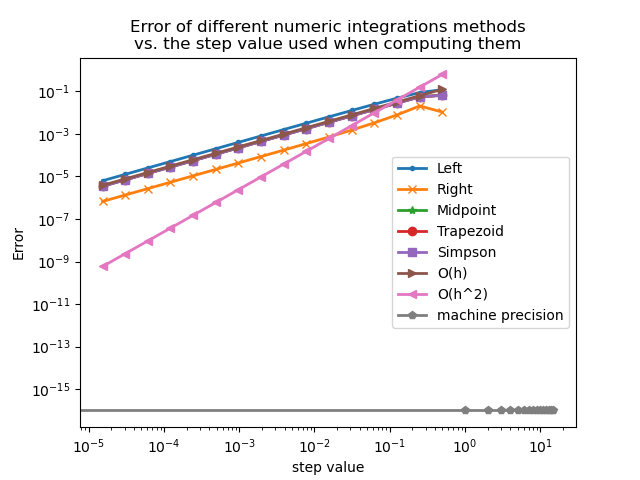
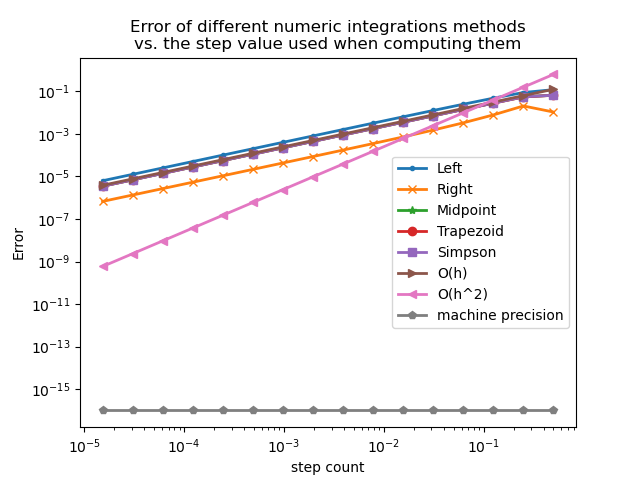
HW7 writeup done

diff --git a/Homework7/HW7Writeup.py b/Homework7/HW7Writeup.py
@@ -10,48 +10,47 @@ def kitten_weight(x, mu=3.5, sigma=.73):
 
 def problem1():
     exact = si.quad(kitten_weight, a=4, b=5)[0]
+
     h_list = [2**(-(i + 1)) for i in range(16)]
+    step_count = [int((1 - h) / h) for h in h_list]
+
     left = np.ndarray((16, 1))
-    for i in range(len(left)):
-        h = h_list[i]
-        integral = 0
-        for j in np.linspace(4 + h, 5, int((1 - h) / h)):
-            integral += kitten_weight(j) * h
-        left[i] = integral
-
     right = np.ndarray((16, 1))
-    for i in range(len(left)):
-        h = h_list[i]
-        integral = 0
-        for j in np.linspace(4, 5 - h, int((1 - h) / h)):
-            integral += kitten_weight(j) * h
-        right[i] = integral
-
     midpoint = np.ndarray((16, 1))
-    for i in range(len(left)):
-        h = h_list[i]
-        integral = 0
-        for j in np.linspace(4 + (h / 2), 5 - (h / 2), int((1 - h) / h)):
-            integral += kitten_weight(j) * h
-        midpoint[i] = integral
-
     trapezoid = np.ndarray((16, 1))
-    for i in range(len(left)):
-        h = h_list[i]
-        integral = 0
-        for j in np.linspace(4, 5 - h, int((1 - h) / h)):
-            integral += h * ((kitten_weight(j) + kitten_weight(j + h)) / 2)
-        trapezoid[i] = integral
-
     simpson = np.ndarray((16, 1))
+
     for i in range(len(left)):
         h = h_list[i]
-        integral = 0
-        for j in np.linspace(4, 5 - h, int((1 - h) / h)):
-            integral += (h / 6) * (kitten_weight(j) +
-                                   (4 * kitten_weight((j + (j + h)) / 2)) +
-                                   kitten_weight(j + h))
-        simpson[i] = integral
+        sc = step_count[i]
+        for j in np.linspace(4 + h, 5, sc):
+            left[i] += kitten_weight(j) * h
+
+    for i in range(len(right)):
+        h = h_list[i]
+        sc = step_count[i]
+        for j in np.linspace(4, 5 - h, sc):
+            right[i] += kitten_weight(j) * h
+
+    for i in range(len(midpoint)):
+        h = h_list[i]
+        sc = step_count[i]
+        for j in np.linspace(4 + (h / 2), 5 - (h / 2), sc):
+            midpoint[i] += kitten_weight(j) * h
+
+    for i in range(len(trapezoid)):
+        h = h_list[i]
+        sc = step_count[i]
+        for j in np.linspace(4, 5 - h, sc):
+            trapezoid[i] += h * ((kitten_weight(j) + kitten_weight(j + h)) / 2)
+
+    for i in range(len(simpson)):
+        h = h_list[i]
+        sc = step_count[i]
+        for j in np.linspace(4, 5 - h, sc):
+            simpson[i] += (h / 6) * (kitten_weight(j) +
+                                     (4 * kitten_weight((j + (j + h)) / 2)) +
+                                     kitten_weight(j + h))
 
     left_error = np.abs(exact - left)
     right_error = np.abs(exact - right)
@@ -70,11 +69,11 @@ def problem1():
     plt.plot(h_list, simpson_error, label="Simpson", marker="s", linewidth=2)
     plt.plot(h_list, o_h, label="O(h)", marker=">", linewidth=2)
     plt.plot(h_list, o_h2, label="O(h^2)", marker="<", linewidth=2)
-    plt.plot(
-        [1e-16 for i in range(16)],
-        label="machine precision", marker='p', linewidth=2)
+    plt.plot(h_list,
+             [1e-16 for i in range(16)],
+             label="machine precision", marker='p', linewidth=2)
     plt.legend()
-    plt.xlabel("step value")
+    plt.xlabel("step count")
     plt.ylabel("Error")
     plt.xscale('log')
     plt.yscale('log')
@@ -84,4 +83,71 @@ vs. the step value used when computing them")
     plt.savefig("HW7_plot.png")
 
 
+def sqrt_in_el_f(t, a, b):
+    return np.sqrt((a**2) * (np.cos(t)**2) + (b**2) * (np.sin(t)**2))
+
+
+def extra_credit():
+    plt.clf()
+    a = 1.5
+    b = .3
+    exact = si.quad(sqrt_in_el_f, a=0, b=np.pi / 2, args=(a, b))[0]
+
+    points = [2**(i + 1) for i in range(14)]
+    delta_list = [np.pi / point for point in points]
+    left = np.ndarray((14, 1))
+    right = np.ndarray((14, 1))
+    trapezoid = np.ndarray((14, 1))
+
+    for i in range(len(left)):
+        sc = points[i]
+        delta = np.pi / sc
+        for j in np.linspace(0 + delta, np.pi / 2, sc):
+            left[i] += sqrt_in_el_f(j, a, b) * delta
+        left[i] *= 4
+
+    for i in range(len(right)):
+        sc = points[i]
+        delta = np.pi / sc
+        for j in np.linspace(0, (np.pi / 2) - delta, sc):
+            right[i] += sqrt_in_el_f(j, a, b) * delta
+        right[i] *= 4
+
+    for i in range(len(trapezoid)):
+        sc = points[i]
+        delta = np.pi / sc
+        for j in np.linspace(0, (np.pi / 2) - delta, sc):
+            trapezoid[i] += delta * ((sqrt_in_el_f(j, a, b) +
+                                      sqrt_in_el_f(j + delta, a, b)) / 2)
+        trapezoid[i] *= 4
+
+    left_error = np.abs(exact - left)
+    right_error = np.abs(exact - right)
+    trap_error = np.abs(exact - trapezoid)
+
+    c1 = .25
+    c2 = 2.5
+    o_h = [c1 * h for h in delta_list]
+    o_h2 = [c2 * (h**2) for h in delta_list]
+    plt.plot(points, left_error, label="Left", marker=".", linewidth=2)
+    plt.plot(points, right_error, label="Right", marker="x", linewidth=2)
+    plt.plot(points, trap_error, label="Trapezoid", marker="o", linewidth=2)
+    plt.plot(points, o_h, label="O(h)", marker=">", linewidth=2)
+    plt.plot(points, o_h2, label="O(h^2)", marker="<", linewidth=2)
+    plt.plot(points,
+             [1e-16 for i in range(14)],
+             label="machine precision", marker='p', linewidth=2)
+    plt.legend()
+    plt.xlabel("Number of points")
+    plt.ylabel("Error")
+    plt.xscale('log')
+    plt.yscale('log')
+    plt.legend()
+    plt.title(
+        "Error of different numeric integrations methods\n\
+vs. the step count used when computing them")
+    plt.savefig("hw7_extra_credit.png")
+
+
 problem1()
+extra_credit()

diff --git a/Homework7/HW7Code.py b/Homework7/HW7Code.py
@@ -96,47 +96,45 @@ def kitten_weight(x, mu=3.5, sigma=.73):
 def problem2():
     A6 = si.quad(kitten_weight, a=4, b=5)[0]
 
+    h_list = [2**(-(i + 1)) for i in range(16)]
+    step_count = [int((1 - h) / h) for h in h_list]
     left = np.ndarray((16, 1))
-    for i in range(len(left)):
-        h = 2**(-(i + 1))
-        integral = 0
-        for j in np.linspace(4 + h, 5, int((1 - h) / h)):
-            integral += kitten_weight(j) * h
-        left[i] = integral
-
     right = np.ndarray((16, 1))
-    for i in range(len(left)):
-        h = 2**(-(i + 1))
-        integral = 0
-        for j in np.linspace(4, 5 - h, int((1 - h) / h)):
-            integral += kitten_weight(j) * h
-        right[i] = integral
-
     midpoint = np.ndarray((16, 1))
-    for i in range(len(left)):
-        h = 2**(-(i + 1))
-        integral = 0
-        for j in np.linspace(4 + (h / 2), 5 - (h / 2), int((1 - h) / h)):
-            integral += kitten_weight(j) * h
-        midpoint[i] = integral
-
     trapezoid = np.ndarray((16, 1))
-    for i in range(len(left)):
-        h = 2**(-(i + 1))
-        integral = 0
-        for j in np.linspace(4, 5 - h, int((1 - h) / h)):
-            integral += h * ((kitten_weight(j) + kitten_weight(j + h)) / 2)
-        trapezoid[i] = integral
-
     simpson = np.ndarray((16, 1))
+
     for i in range(len(left)):
-        h = 2**(-(i + 1))
-        integral = 0
-        for j in np.linspace(4, 5 - h, int((1 - h) / h)):
-            integral += (h / 6) * (kitten_weight(j) +
-                                   (4 * kitten_weight((j + (j + h)) / 2)) +
-                                   kitten_weight(j + h))
-        simpson[i] = integral
+        h = h_list[i]
+        sc = step_count[i]
+        for j in np.linspace(4 + h, 5, sc):
+            left[i] += kitten_weight(j) * h
+
+    for i in range(len(right)):
+        h = h_list[i]
+        sc = step_count[i]
+        for j in np.linspace(4, 5 - h, sc):
+            right[i] += kitten_weight(j) * h
+
+    for i in range(len(midpoint)):
+        h = h_list[i]
+        sc = step_count[i]
+        for j in np.linspace(4 + (h / 2), 5 - (h / 2), sc):
+            midpoint[i] += kitten_weight(j) * h
+
+    for i in range(len(trapezoid)):
+        h = h_list[i]
+        sc = step_count[i]
+        for j in np.linspace(4, 5 - h, sc):
+            trapezoid[i] += h * ((kitten_weight(j) + kitten_weight(j + h)) / 2)
+
+    for i in range(len(simpson)):
+        h = h_list[i]
+        sc = step_count[i]
+        for j in np.linspace(4, 5 - h, sc):
+            simpson[i] += (h / 6) * (kitten_weight(j) +
+                                     (4 * kitten_weight((j + (j + h)) / 2)) +
+                                     kitten_weight(j + h))
 
     A7 = left
     A8 = right
